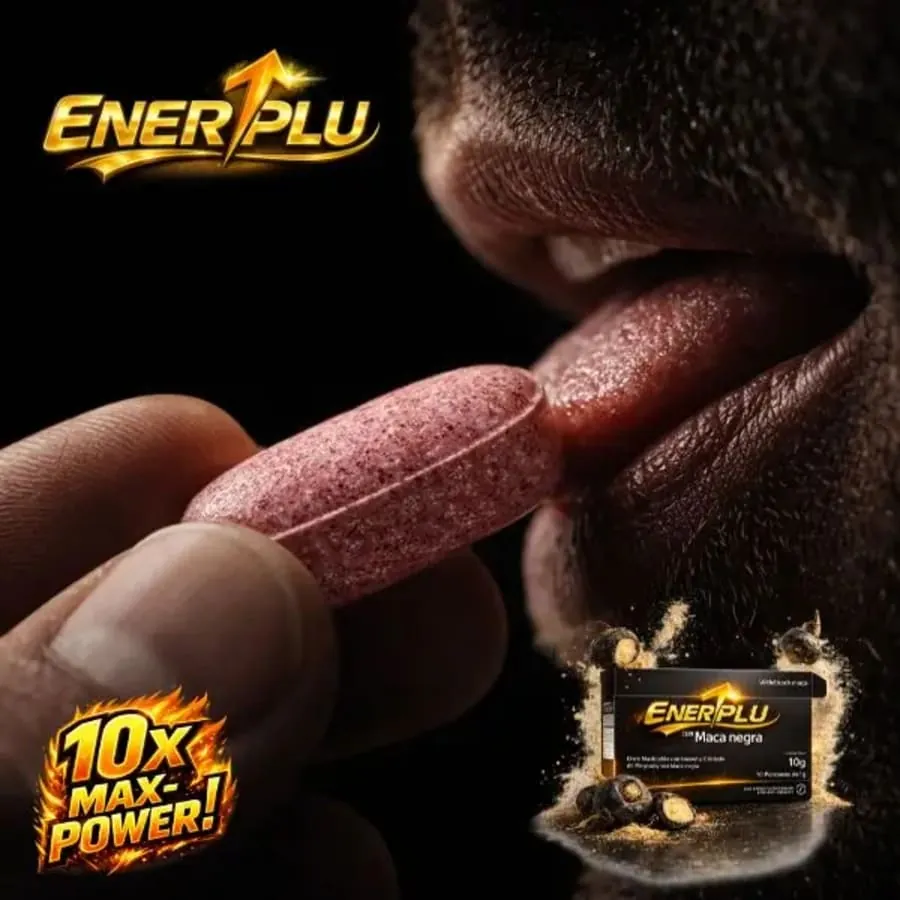
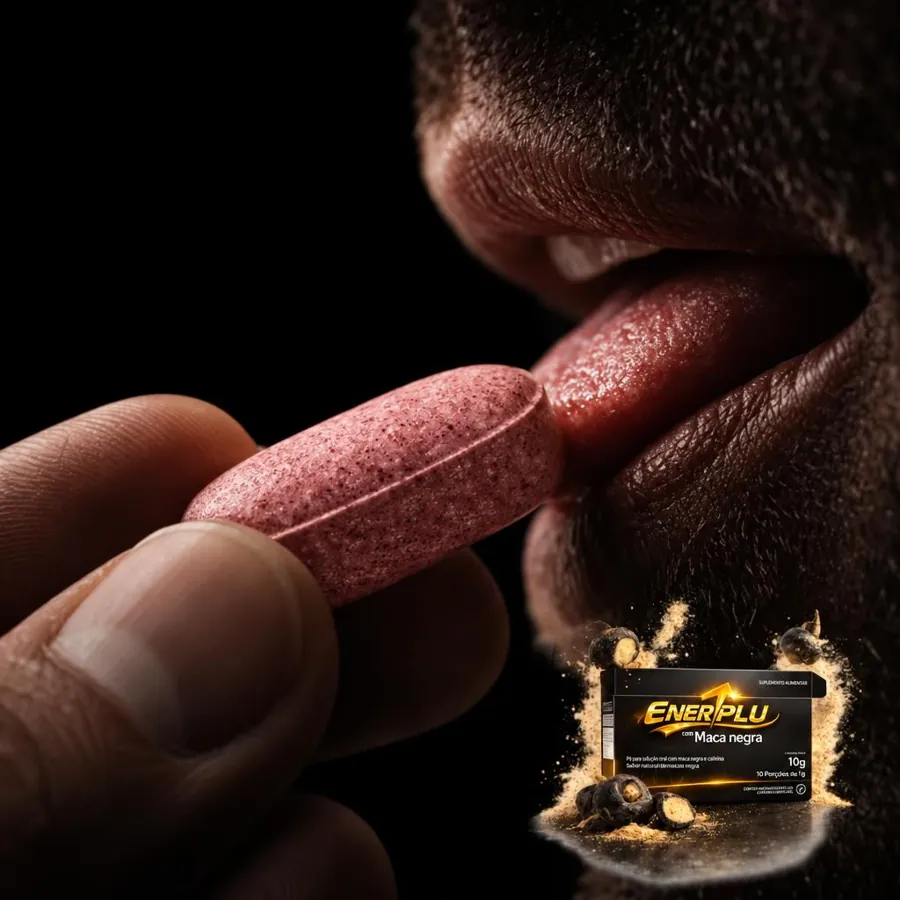
Vista previa /pro: 'Elige tu arsenal' sobre los planes (texto de cesar), sin tarjeta 'Estás a un paso', sin verde, garantía 15 días, foto del mecanismo sin sello 10x
Claude-Session: https://claude.ai/code/session_015yRKJtpCFs4oMsMpFCr2wa

diff --git a/public/pro.html b/public/pro.html
@@ -171,6 +171,7 @@ h1.h-t{margin-top:10px;font-size:clamp(44px,13.4vw,128px)}
 .zero span{display:block;margin-top:4px;font:700 15px/1.2 var(--disp);font-stretch:85%;text-transform:uppercase}
 
 /* decisión */
+.dec{padding-bottom:36px}
 .dec h2{font-size:clamp(34px,9.6vw,76px)}
 .opts{display:grid;gap:12px;margin-top:30px}
 .opt{display:grid;grid-template-columns:44px 1fr;gap:14px;align-items:start;padding:20px 18px;border:1px solid var(--line);border-radius:18px;background:var(--k2);color:var(--mu);font-size:15px}
@@ -226,11 +227,21 @@ h1.h-t{margin-top:10px;font-size:clamp(44px,13.4vw,128px)}
 #ep-order #ckn .thumb{width:92px;height:92px;border-radius:12px;background:#F3F3F1}
 #ep-order #ckn .thumb img{object-fit:cover;object-position:center}
 #ep-order #ckn .hero .ph img{object-fit:cover;background:#F3F3F1}
+#ep-order #ckn{--ok:rgb(var(--gl-rgb));--okbg:rgba(var(--g-rgb),.16)}
+#ep-order #ckn .row.g{color:#F2EFE8}
+#ep-order #ckn .sub svg{color:var(--gold)}
+#ep-order #ckn .inp .okc{color:#15803D}
+#ep-order #ckn .f.good input{border-color:#22C55E}
+/* encabezado del selector: "Elige tu arsenal" */
+#ep-order #ckn #paso1 .h h2{font:900 30px/1 Archivo,Inter,sans-serif;font-stretch:78%;text-transform:uppercase;letter-spacing:.005em}
+#ep-order #ckn #paso1 .h h2 small{display:block;margin-top:8px;font:600 15px/1.35 Inter,sans-serif;text-transform:none;letter-spacing:0;color:var(--tx)}
+#ep-order #ckn .ars-p{margin:4px 0 16px;color:rgba(242,239,232,.72);font-size:14.5px;line-height:1.45}
+#ep-order #ckn .ars-p b{color:var(--gold-l)}
 #ep-order #ckn .okc2{background:var(--k2);color:var(--tx)}
 #ep-order #ckn .top{border-bottom-color:rgba(var(--g-rgb),.3)}
 
 /* reseñas en banda clara */
-#resenas{--bg:var(--k);--bg2:var(--k2);--ink:#F2EFE8;--mut:rgba(242,239,232,.65);--faint:rgba(242,239,232,.5);--line:rgba(255,255,255,.1);--gold:rgb(var(--g-rgb));--gold-d:rgb(var(--gl-rgb));--gold-bg:rgba(var(--g-rgb),.1);--ok:#4ADE80;--no:#F87171;--disp:Archivo,Inter,system-ui,sans-serif;color:#F2EFE8;background:var(--k);padding:72px 0 64px}
+#resenas{--bg:var(--k);--bg2:var(--k2);--ink:#F2EFE8;--mut:rgba(242,239,232,.65);--faint:rgba(242,239,232,.5);--line:rgba(255,255,255,.1);--gold:rgb(var(--g-rgb));--gold-d:rgb(var(--gl-rgb));--gold-bg:rgba(var(--g-rgb),.1);--ok:#F2EFE8;--no:#F87171;--disp:Archivo,Inter,system-ui,sans-serif;color:#F2EFE8;background:var(--k);padding:72px 0 64px}
 #resenas .w{max-width:1120px}
 #resenas .tagl{font-family:var(--mono);font-size:11px;letter-spacing:.14em;text-transform:uppercase;color:var(--gold)}
 #resenas h2{margin-top:10px;font-family:Archivo,Inter,sans-serif;font-stretch:72%;font-weight:900;text-transform:uppercase;line-height:.92;font-size:clamp(38px,11vw,80px);color:var(--tx)}
@@ -334,6 +345,18 @@ h1.h-t{margin-top:10px;font-size:clamp(44px,13.4vw,128px)}
 .fq p{padding:0 46px 22px 2px;color:var(--mu);font-size:16px}
 .fq[open] p{animation:fqin .45s ease}
 @keyframes fqin{from{opacity:0;transform:translateY(-6px)}}
+
+/* garantía */
+.gar{padding:20px 0 0}
+.gar-c{display:grid;grid-template-columns:92px 1fr;gap:18px;align-items:center;padding:22px 20px;border-radius:22px;border:1px solid rgba(var(--g-rgb),.4);background:radial-gradient(120% 140% at 0% 0%,rgba(var(--g-rgb),.18),transparent 60%),var(--k2)}
+.seal{position:relative;width:92px;height:92px;display:grid;place-items:center}
+.seal svg.rot{position:absolute;inset:0;width:100%;height:100%;animation:spin 18s linear infinite}
+.seal svg.rot text{font:700 8.6px var(--mono);letter-spacing:.24em;fill:var(--gold-l)}
+.seal b{position:relative;display:grid;place-items:center;width:58px;height:58px;border-radius:50%;background:var(--gold);color:var(--on-acc);font:900 24px/.9 var(--disp);font-stretch:75%;text-align:center;box-shadow:0 0 30px rgba(var(--g-rgb),.55)}
+.seal b small{display:block;font-size:9px;letter-spacing:.08em}
+.gar-c h3{font:900 24px/1 var(--disp);font-stretch:78%;text-transform:uppercase}
+.gar-c p{margin-top:8px;color:var(--mu);font-size:14.5px}
+.gar-c a{display:inline-flex;align-items:center;gap:6px;margin-top:10px;color:var(--gold-l);font-weight:700;font-size:14px;text-decoration:underline;text-underline-offset:3px}
 
 /* cierre */
 .foot{padding:40px 0 120px;text-align:center;color:var(--mu);font-size:12px;border-top:1px solid var(--line)}
@@ -512,6 +535,13 @@ body::before{content:"";position:fixed;inset:0 0 auto;height:env(safe-area-inset
   </div>
 </section>
 
+<section class="gar" id="garantia">
+  <div class="w"><div class="gar-c rv">
+    <div class="seal" aria-hidden="true"><svg class="rot" viewBox="0 0 100 100"><defs><path id="gc" d="M50,50 m-42,0 a42,42 0 1,1 84,0 a42,42 0 1,1 -84,0"/></defs><text><textPath href="#gc">GARANTÍA REAL · GARANTÍA REAL · </textPath></text></svg><b>15<small>DÍAS</small></b></div>
+    <div><h3>Garantía Real de 15 días</h3><p>Los planes Dominio Total y Élite tienen 15 días desde la entrega, devolviendo las cajas selladas.</p><a href="/garantia">Ver condiciones <svg class="p-ic" style="width:16px;height:16px"><use href="#i-arrow"/></svg></a></div>
+  </div></div>
+</section>
+
 <section class="p-sec dec" id="decision">
   <div class="w">
     <span class="p-tag mono rv">Tu turno</span>
@@ -521,7 +551,6 @@ body::before{content:"";position:fixed;inset:0 0 auto;height:env(safe-area-inset
       <div class="opt x rv d2"><span class="p-num"><svg class="p-ic"><use href="#i-warn"/></svg></span><div><b>Opción 2</b>Seguir con lo mismo. Gastar dinero en jarabes vergonzosos o cápsulas que no te funcionan.</div></div>
       <div class="opt win rv d3"><span class="p-num"><svg class="p-ic"><use href="#i-bolt"/></svg></span><div><b>Opción 3</b>Tomar el control absoluto. Invertir en Enerplu hoy mismo, recibirlo en empaque 100 % discreto y tener una alternativa práctica cuando la necesites.</div></div>
     </div>
-    <div class="arsenal rv"><div class="disp">Elige tu arsenal <span class="gold-t">a continuación</span></div><svg class="p-ic"><use href="#i-down"/></svg></div>
   </div>
 </section>
 
@@ -547,24 +576,12 @@ body::before{content:"";position:fixed;inset:0 0 auto;height:env(safe-area-inset
 </svg><div class="top ckn-top"><div class="steps"><div class="st on" id="s1"><i></i>1 · Tu plan</div><div class="st" id="s2"><i></i>2 · Tus datos</div><div class="st" id="s3"><i></i>3 · Pago</div></div></div><div id="tb" hidden style="background:#B42318;color:#fff;text-align:center;font:700 13px Inter,sans-serif;padding:8px">MODO PRUEBA: este pedido no se crea</div>
 <input id="hp" name="website" tabindex="-1" autocomplete="off" aria-hidden="true" style="position:absolute;left:-9999px;width:1px;height:1px;opacity:0"><main class="wrap">
  <div class="mainc">
-  <section class="hero">
-    <div class="tx">
-      <div class="eyebrow">Estás a un paso</div>
-      <h1>Tu pedido llega discreto y lo pagas al recibir</h1>
-      <p>Envío gratis en bolsa negra sellada.</p>
-    </div>
-    <div class="ph"><img src="/img/ck/dominio.jpg" alt="Plan Dominio Total de ENERPLU" width="700" height="350"></div>
-  </section>
 
-  <div class="perks">
-    <div class="perk"><svg class="i"><use href="#truck"/></svg>Envío GRATIS a toda Colombia</div>
-    <div class="perk"><svg class="i"><use href="#cash"/></svg>Pagas al recibir en tu casa</div>
-    <div class="perk"><svg class="i"><use href="#bag"/></svg>Bolsa negra sellada y discreta</div>
-  </div>
 
   <!-- PASO 1 -->
   <section class="sec ep-plans" id="paso1">
-    <div class="h"><div class="num">1</div><h2>Elige tu plan<small>Entre más cajas, menos pagas por cada tableta</small></h2></div>
+    <div class="h"><div class="num">1</div><h2>Elige tu arsenal<small>Asegura tu arsenal ya: entre más cajas lleves, más barato te sale cada polvo.</small></h2></div>
+    <p class="ars-p">Cada caja trae 10 tabletas: 10 noches en las que mandas tú. Toca tu plan y pide. <b>Pagas al recibir.</b></p>
     <div class="plans" id="plans"></div>
     <div class="incl">
       <h3>Tu pedido incluye</h3>

diff --git a/fuente/pro/pro.html b/fuente/pro/pro.html
@@ -171,6 +171,7 @@ h1.h-t{margin-top:10px;font-size:clamp(44px,13.4vw,128px)}
 .zero span{display:block;margin-top:4px;font:700 15px/1.2 var(--disp);font-stretch:85%;text-transform:uppercase}
 
 /* decisión */
+.dec{padding-bottom:36px}
 .dec h2{font-size:clamp(34px,9.6vw,76px)}
 .opts{display:grid;gap:12px;margin-top:30px}
 .opt{display:grid;grid-template-columns:44px 1fr;gap:14px;align-items:start;padding:20px 18px;border:1px solid var(--line);border-radius:18px;background:var(--k2);color:var(--mu);font-size:15px}
@@ -226,11 +227,21 @@ h1.h-t{margin-top:10px;font-size:clamp(44px,13.4vw,128px)}
 #ep-order #ckn .thumb{width:92px;height:92px;border-radius:12px;background:#F3F3F1}
 #ep-order #ckn .thumb img{object-fit:cover;object-position:center}
 #ep-order #ckn .hero .ph img{object-fit:cover;background:#F3F3F1}
+#ep-order #ckn{--ok:rgb(var(--gl-rgb));--okbg:rgba(var(--g-rgb),.16)}
+#ep-order #ckn .row.g{color:#F2EFE8}
+#ep-order #ckn .sub svg{color:var(--gold)}
+#ep-order #ckn .inp .okc{color:#15803D}
+#ep-order #ckn .f.good input{border-color:#22C55E}
+/* encabezado del selector: "Elige tu arsenal" */
+#ep-order #ckn #paso1 .h h2{font:900 30px/1 Archivo,Inter,sans-serif;font-stretch:78%;text-transform:uppercase;letter-spacing:.005em}
+#ep-order #ckn #paso1 .h h2 small{display:block;margin-top:8px;font:600 15px/1.35 Inter,sans-serif;text-transform:none;letter-spacing:0;color:var(--tx)}
+#ep-order #ckn .ars-p{margin:4px 0 16px;color:rgba(242,239,232,.72);font-size:14.5px;line-height:1.45}
+#ep-order #ckn .ars-p b{color:var(--gold-l)}
 #ep-order #ckn .okc2{background:var(--k2);color:var(--tx)}
 #ep-order #ckn .top{border-bottom-color:rgba(var(--g-rgb),.3)}
 
 /* reseñas en banda clara */
-#resenas{--bg:var(--k);--bg2:var(--k2);--ink:#F2EFE8;--mut:rgba(242,239,232,.65);--faint:rgba(242,239,232,.5);--line:rgba(255,255,255,.1);--gold:rgb(var(--g-rgb));--gold-d:rgb(var(--gl-rgb));--gold-bg:rgba(var(--g-rgb),.1);--ok:#4ADE80;--no:#F87171;--disp:Archivo,Inter,system-ui,sans-serif;color:#F2EFE8;background:var(--k);padding:72px 0 64px}
+#resenas{--bg:var(--k);--bg2:var(--k2);--ink:#F2EFE8;--mut:rgba(242,239,232,.65);--faint:rgba(242,239,232,.5);--line:rgba(255,255,255,.1);--gold:rgb(var(--g-rgb));--gold-d:rgb(var(--gl-rgb));--gold-bg:rgba(var(--g-rgb),.1);--ok:#F2EFE8;--no:#F87171;--disp:Archivo,Inter,system-ui,sans-serif;color:#F2EFE8;background:var(--k);padding:72px 0 64px}
 #resenas .w{max-width:1120px}
 #resenas .tagl{font-family:var(--mono);font-size:11px;letter-spacing:.14em;text-transform:uppercase;color:var(--gold)}
 #resenas h2{margin-top:10px;font-family:Archivo,Inter,sans-serif;font-stretch:72%;font-weight:900;text-transform:uppercase;line-height:.92;font-size:clamp(38px,11vw,80px);color:var(--tx)}
@@ -268,6 +279,18 @@ h1.h-t{margin-top:10px;font-size:clamp(44px,13.4vw,128px)}
 .fq p{padding:0 46px 22px 2px;color:var(--mu);font-size:16px}
 .fq[open] p{animation:fqin .45s ease}
 @keyframes fqin{from{opacity:0;transform:translateY(-6px)}}
+
+/* garantía */
+.gar{padding:20px 0 0}
+.gar-c{display:grid;grid-template-columns:92px 1fr;gap:18px;align-items:center;padding:22px 20px;border-radius:22px;border:1px solid rgba(var(--g-rgb),.4);background:radial-gradient(120% 140% at 0% 0%,rgba(var(--g-rgb),.18),transparent 60%),var(--k2)}
+.seal{position:relative;width:92px;height:92px;display:grid;place-items:center}
+.seal svg.rot{position:absolute;inset:0;width:100%;height:100%;animation:spin 18s linear infinite}
+.seal svg.rot text{font:700 8.6px var(--mono);letter-spacing:.24em;fill:var(--gold-l)}
+.seal b{position:relative;display:grid;place-items:center;width:58px;height:58px;border-radius:50%;background:var(--gold);color:var(--on-acc);font:900 24px/.9 var(--disp);font-stretch:75%;text-align:center;box-shadow:0 0 30px rgba(var(--g-rgb),.55)}
+.seal b small{display:block;font-size:9px;letter-spacing:.08em}
+.gar-c h3{font:900 24px/1 var(--disp);font-stretch:78%;text-transform:uppercase}
+.gar-c p{margin-top:8px;color:var(--mu);font-size:14.5px}
+.gar-c a{display:inline-flex;align-items:center;gap:6px;margin-top:10px;color:var(--gold-l);font-weight:700;font-size:14px;text-decoration:underline;text-underline-offset:3px}
 
 /* cierre */
 .foot{padding:40px 0 120px;text-align:center;color:var(--mu);font-size:12px;border-top:1px solid var(--line)}
@@ -411,6 +434,13 @@ h1.h-t{margin-top:10px;font-size:clamp(44px,13.4vw,128px)}
   </div>
 </section>
 
+<section class="gar" id="garantia">
+  <div class="w"><div class="gar-c rv">
+    <div class="seal" aria-hidden="true"><svg class="rot" viewBox="0 0 100 100"><defs><path id="gc" d="M50,50 m-42,0 a42,42 0 1,1 84,0 a42,42 0 1,1 -84,0"/></defs><text><textPath href="#gc">GARANTÍA REAL · GARANTÍA REAL · </textPath></text></svg><b>15<small>DÍAS</small></b></div>
+    <div><h3>Garantía Real de 15 días</h3><p>Los planes Dominio Total y Élite tienen 15 días desde la entrega, devolviendo las cajas selladas.</p><a href="/garantia">Ver condiciones <svg class="p-ic" style="width:16px;height:16px"><use href="#i-arrow"/></svg></a></div>
+  </div></div>
+</section>
+
 <section class="p-sec dec" id="decision">
   <div class="w">
     <span class="p-tag mono rv">Tu turno</span>
@@ -420,7 +450,6 @@ h1.h-t{margin-top:10px;font-size:clamp(44px,13.4vw,128px)}
       <div class="opt x rv d2"><span class="p-num"><svg class="p-ic"><use href="#i-warn"/></svg></span><div><b>Opción 2</b>Seguir con lo mismo. Gastar dinero en jarabes vergonzosos o cápsulas que no te funcionan.</div></div>
       <div class="opt win rv d3"><span class="p-num"><svg class="p-ic"><use href="#i-bolt"/></svg></span><div><b>Opción 3</b>Tomar el control absoluto. Invertir en Enerplu hoy mismo, recibirlo en empaque 100 % discreto y tener una alternativa práctica cuando la necesites.</div></div>
     </div>
-    <div class="arsenal rv"><div class="disp">Elige tu arsenal <span class="gold-t">a continuación</span></div><svg class="p-ic"><use href="#i-down"/></svg></div>
   </div>
 </section>
 

diff --git a/tools/pro_page.py b/tools/pro_page.py
@@ -27,6 +27,15 @@ page = page.replace('/*RESENAS_CSS*/', css, 1)
 # checkout nuevo (el mismo de /ofertas)
 page = vc.embed(page, (P / 'checkout.html').read_text())
 
+# cesar 15-11 7:38 pm: sin la tarjeta "Estás a un paso" ni sus 3 fichas (repetían envío gratis / pagas al recibir / bolsa negra)
+page, n1 = re.subn(r'\s*<section class="hero">.*?</section>\s*<div class="perks">.*?</div>\s*</div>', '\n', page, count=1, flags=re.S)
+assert n1 == 1
+# título del selector (texto de cesar)
+old_h = '<h2>Elige tu plan<small>Entre más cajas, menos pagas por cada tableta</small></h2></div>'
+assert old_h in page
+page = page.replace(old_h, '<h2>Elige tu arsenal<small>Asegura tu arsenal ya: entre más cajas lleves, más barato te sale cada polvo.</small></h2></div>'
+                    '\n    <p class="ars-p">Cada caja trae 10 tabletas: 10 noches en las que mandas tú. Toca tu plan y pide. <b>Pagas al recibir.</b></p>', 1)
+
 # vista previa: nunca crea pedidos ni mide (fuerza ?ep_test=1)
 guard = ("<script>(function(){var u=new URL(location.href);if(u.searchParams.get('ep_test')!=='1'){u.searchParams.set('ep_test','1');"
          "history.replaceState(null,'',u.toString());}})();</script>")
